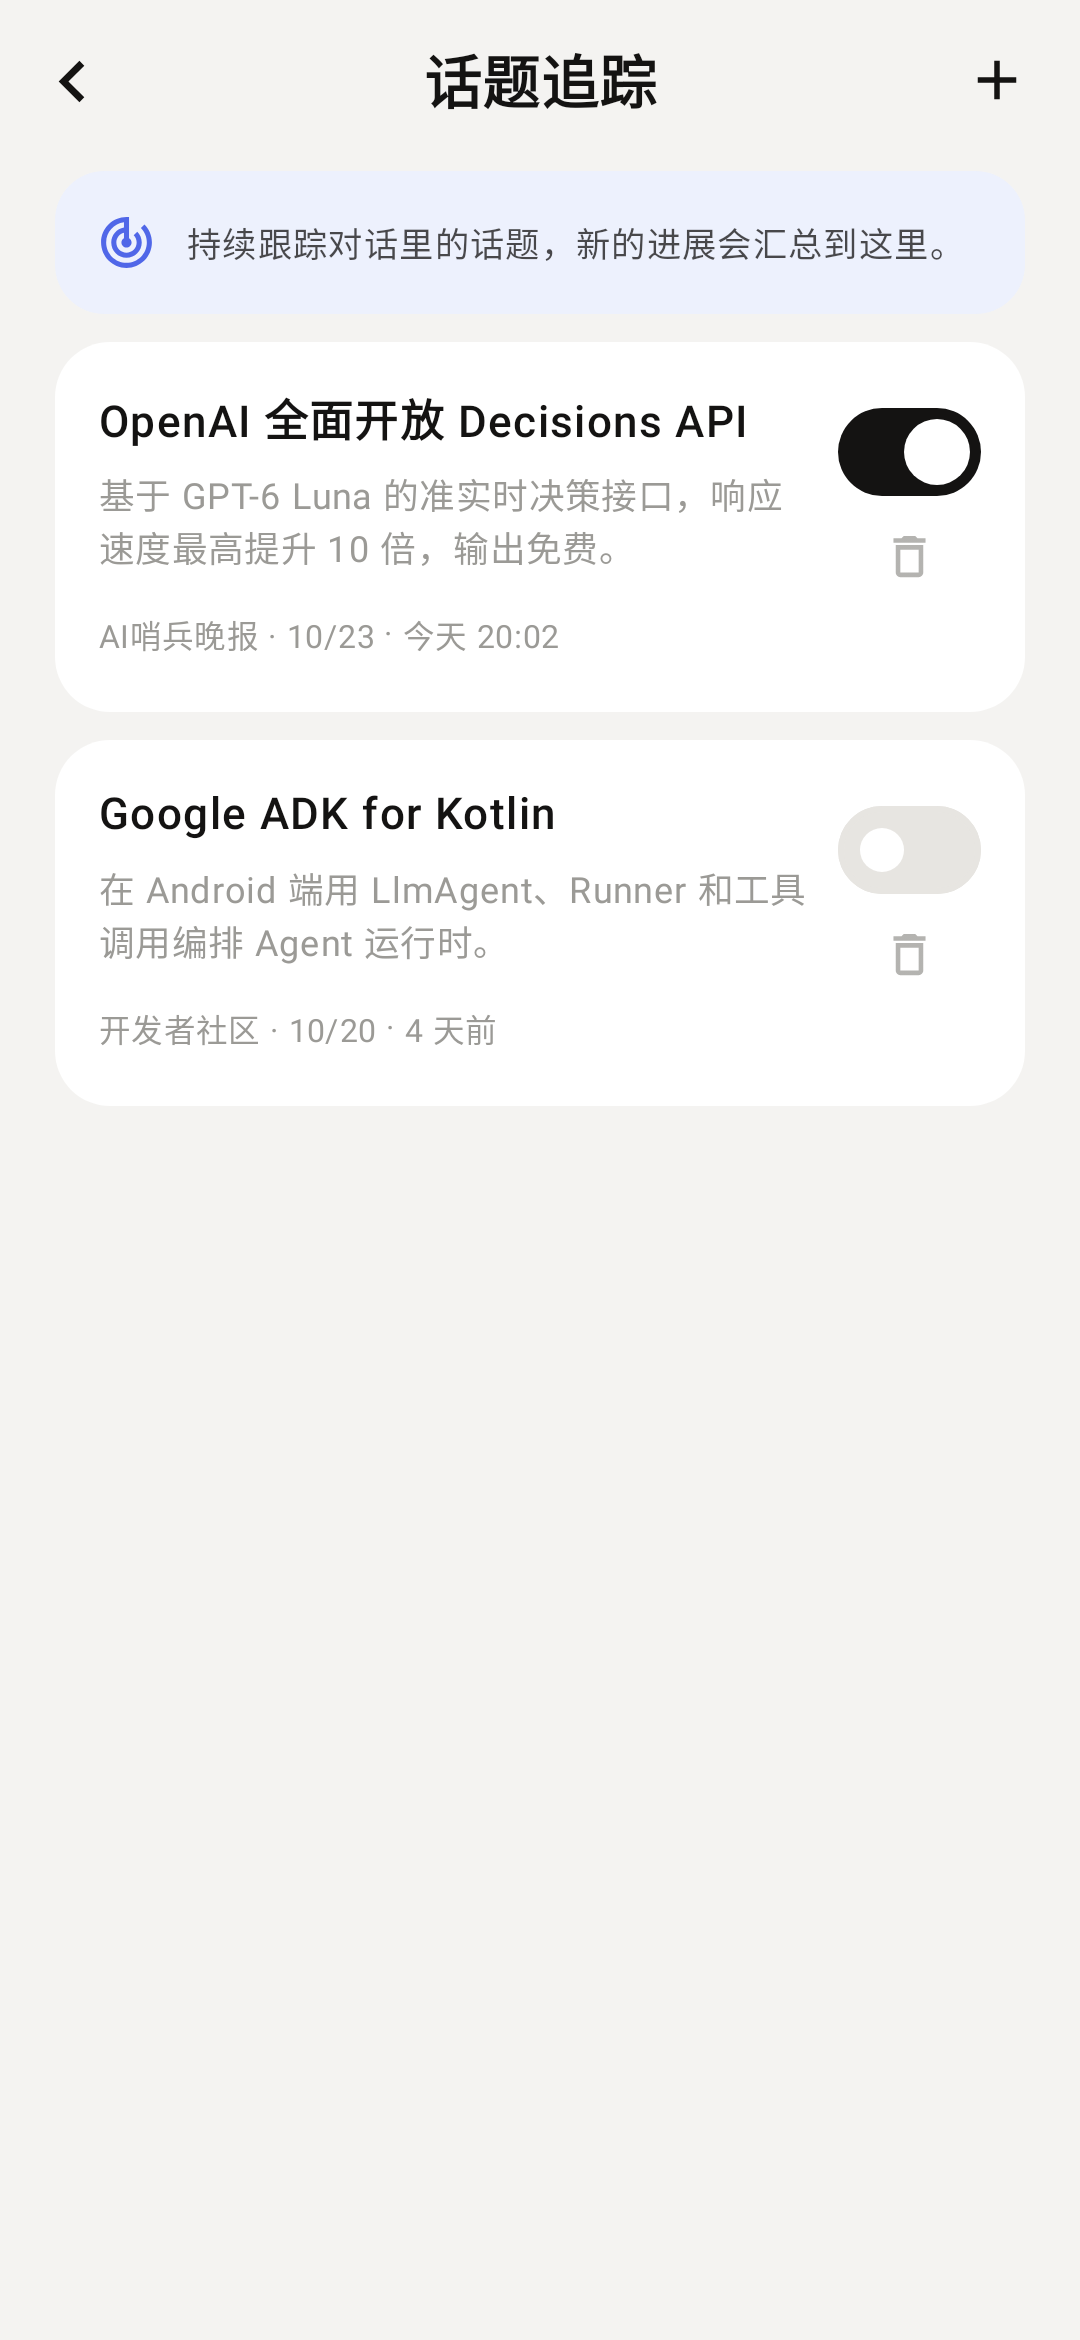
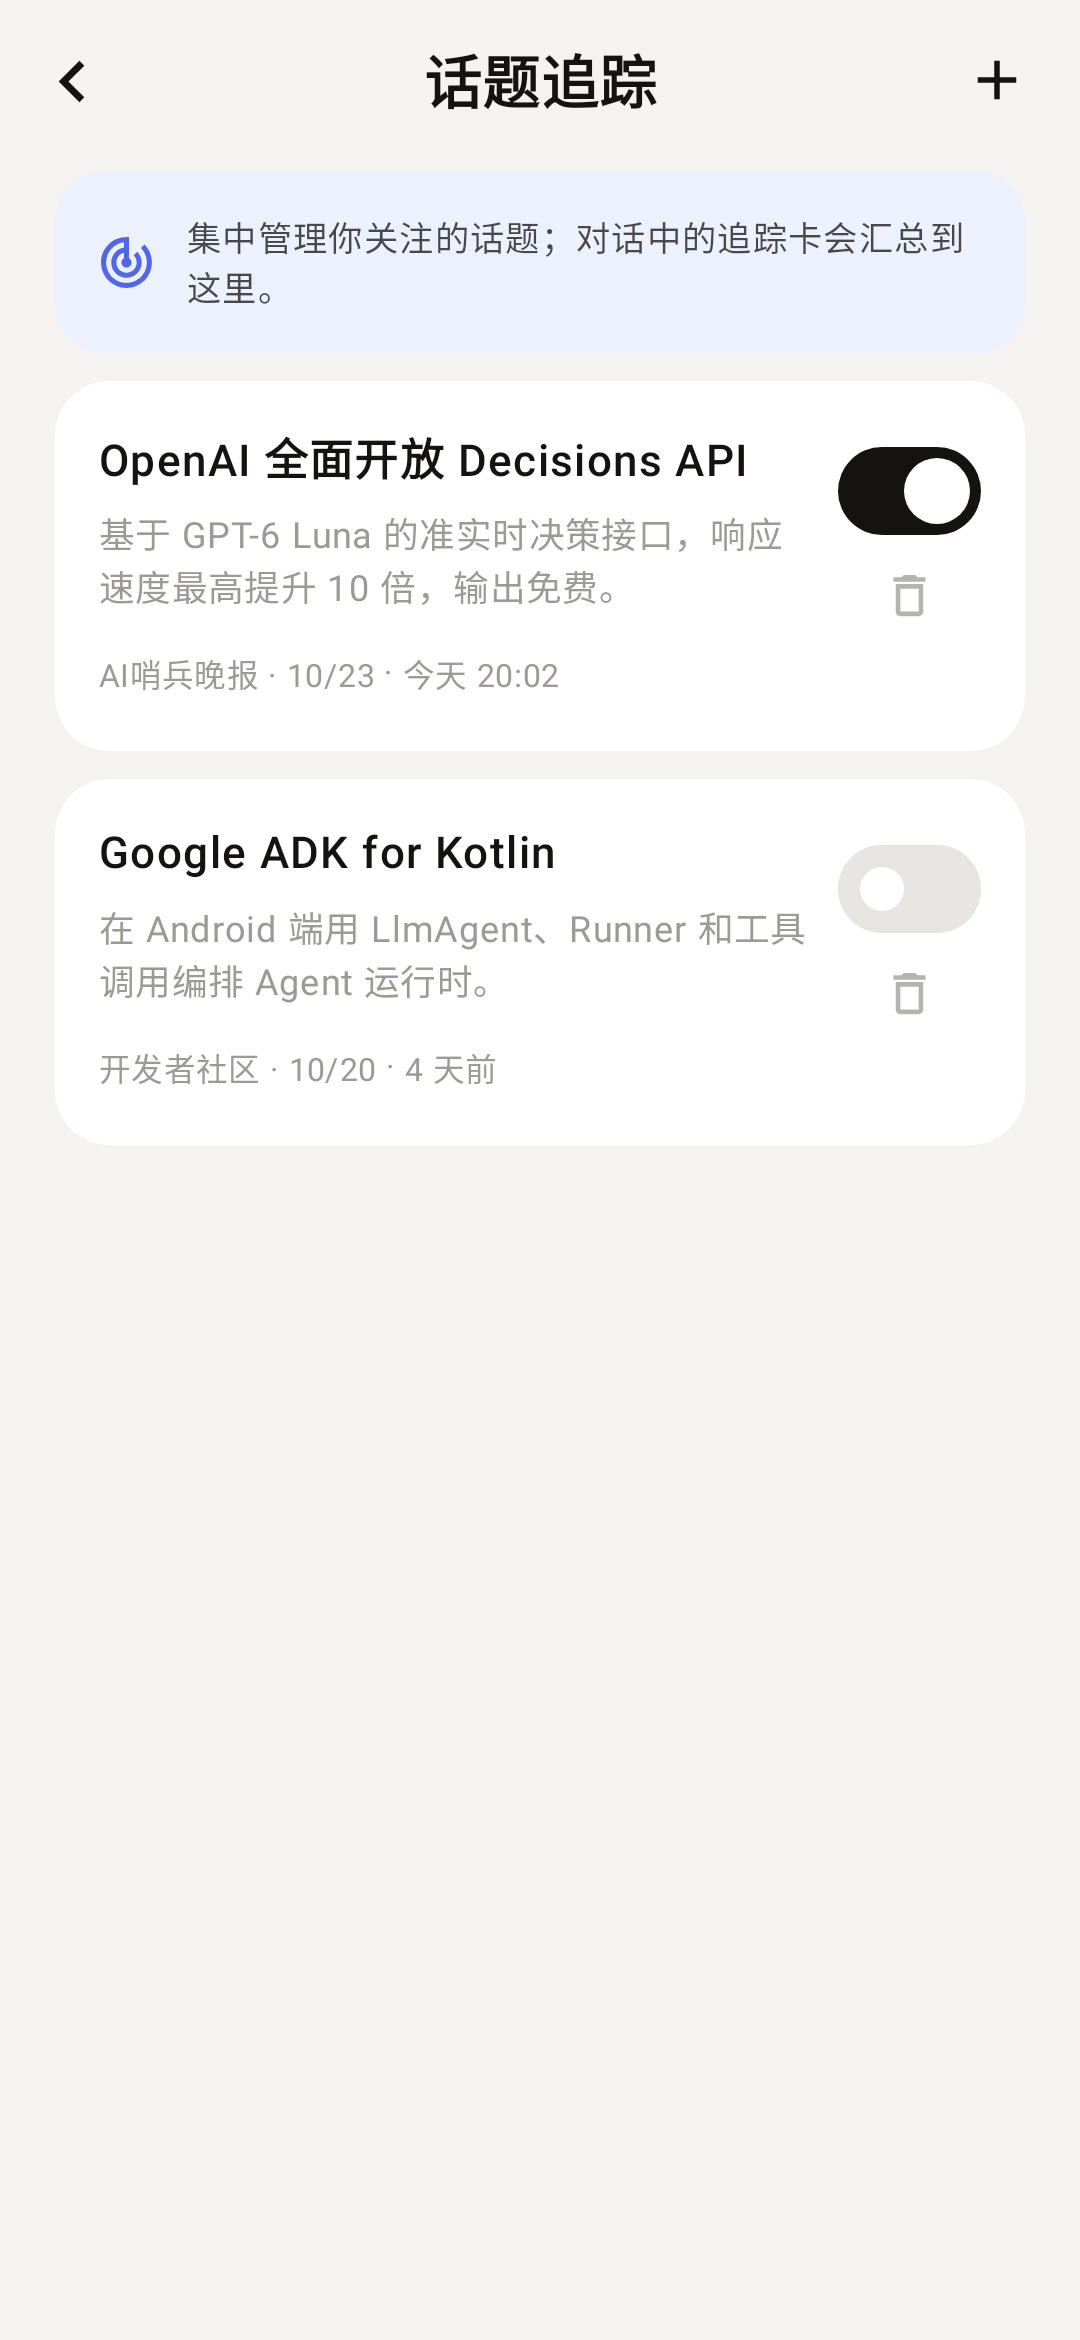
docs: add feature audit and clarify local demo boundaries
- add docs/FEATURE-AUDIT.md mapping every UI feature to code and evidence
- label schedule, drive and topic tracking behavior honestly
- refresh affected screenshots

diff --git a/app/src/main/java/com/qoder/clawagent/ui/screens/DriveScreen.kt b/app/src/main/java/com/qoder/clawagent/ui/screens/DriveScreen.kt
@@ -136,14 +136,14 @@ fun DriveScreen(vm: AppViewModel, onOpenExtensions: (Int) -> Unit) {
                     ) {
                         Column(Modifier.weight(1f)) {
                             Text(
-                                text = "云端工作区文件",
+                                text = "工作区文件",
                                 color = Ink,
                                 fontSize = 14.5.sp,
                                 fontWeight = FontWeight.SemiBold,
                             )
                             Spacer(Modifier.height(3.dp))
                             Text(
-                                text = if (importing) "正在读取文件…" else "${files.size} 个文件 · 图片与文档可从对话或本页添加",
+                                text = if (importing) "正在读取文件…" else "${files.size} 个文件 · 本地演示工作区，可从对话或本页添加",
                                 color = Muted,
                                 fontSize = 11.5.sp,
                             )

diff --git a/app/src/main/java/com/qoder/clawagent/ui/screens/ScheduleScreen.kt b/app/src/main/java/com/qoder/clawagent/ui/screens/ScheduleScreen.kt
@@ -119,7 +119,7 @@ fun ScheduleScreen(vm: AppViewModel, onOpenExtensions: (Int) -> Unit) {
                                 fontWeight = FontWeight.SemiBold,
                             )
                             Spacer(Modifier.height(2.dp))
-                            Text("任务到点后由对应 Agent 执行，结果会回到会话。", color = Muted, fontSize = 11.5.sp)
+                            Text("本地配置 · 定时执行需云端 worker", color = Muted, fontSize = 11.5.sp)
                         }
                     }
                 }

diff --git a/app/src/main/java/com/qoder/clawagent/ui/screens/TopicTrackingScreen.kt b/app/src/main/java/com/qoder/clawagent/ui/screens/TopicTrackingScreen.kt
@@ -101,7 +101,7 @@ fun TopicTrackingScreen(vm: AppViewModel, focusTopicId: String? = null) {
                     )
                     Spacer(Modifier.width(11.dp))
                     Text(
-                        text = "持续跟踪对话里的话题，新的进展会汇总到这里。",
+                        text = "集中管理你关注的话题；对话中的追踪卡会汇总到这里。",
                         color = Ink.copy(alpha = 0.76f),
                         fontSize = 12.5.sp,
                         lineHeight = 18.sp,

diff --git a/docs/FEATURE-AUDIT.md b/docs/FEATURE-AUDIT.md
@@ -1,0 +1,102 @@
+# v1.4 界面功能点核对
+
+核对范围：参考稿中的对话首页、Agent 对话、扩展广场（插件 / 技能 / MCP）、新建 Agent 流程，以及 v1.4 补齐的项目、日程、云盘、个人中心、套餐、话题、Agent 设置、三方 Agent 与本地 Agent 页面。
+
+状态说明：
+
+- **已实现**：有完整交互与状态流转，不只是静态布局。
+- **演示**：交互完整，但依赖本地状态或外部服务，界面中已明确标注。
+- **需外部服务**：客户端已提供配置与入口，真实执行需要云端 worker。
+
+## 对话首页与项目
+
+| 功能点 | 状态 | 实现与验证 |
+| --- | --- | --- |
+| Agent 列表、最近项目、时间与预览摘要 | 已实现 | `HomeScreen.kt`；`home.png` |
+| Agent 搜索过滤 | 已实现 | 顶部搜索按钮展开输入框，按名称 / 摘要过滤 |
+| 列表展开 / 收起 | 已实现 | 「展开」切换可见 Agent 数 |
+| 右上角「+」菜单 | 已实现 | 新建 Agent、新建项目入口 |
+| 新建通用 / 网站项目 | 已实现 | 项目名与类型，创建后进入项目详情；`AppViewModelTest` 覆盖 |
+| 项目详情、工作目录、最近活跃 | 已实现 | `ProjectDetailScreen.kt`；`project-detail.png` |
+| 项目对话 | 已实现 | 每个项目复用一条隐藏 `ChatConversation`，不出现在 Agent 列表 |
+| 个人进阶入口 | 已实现 | 顶部胶囊与底部「更多」均可达 |
+
+## Agent 对话
+
+| 功能点 | 状态 | 实现与验证 |
+| --- | --- | --- |
+| 流式回复、首包上屏、停止 / 重试 / 清空 | 已实现 | `ChatConversation`；9 个领域测试 |
+| 401 / 402 / 429 / 超时 / 断网中文提示 | 已实现 | `ChatFailures.kt` 与错误卡片 |
+| 长文「显示更多 / 收起」 | 已实现 | `ChatThread.kt`；`chat.png` |
+| 用户消息、附件消息、话题追踪卡 | 已实现 | 图片 240×160 裁切；文件芯片显示名称 / 大小 |
+| 顶部运行时状态（云端 / 云电脑 / 本地） | 已实现 | `ChatHeader.kt` + `WorkspaceDialog` |
+| 工作区详情（模型、引擎、目录、端点、扩展） | 已实现 | `ChatDialogs.kt` |
+| 「已处理 N 秒」详情（耗时、模型、输出字数、附件数） | 已实现 | `ProcessedDialog` |
+| 图片多选（最多 4 张）与文件选择（总附件上限 6） | 已实现 | `PickMultipleVisualMedia` / `OpenDocument`；图片缩放 1280px、JPEG 82% |
+| 文本文件读取（前 16 KB）与二进制元数据 | 已实现 | `Attachments.kt` |
+| 附件进入 OpenRouter / ADK / 本地三种运行时 | 已实现 | data URL 图片与文本拼装；`OpenRouterTest` 覆盖 |
+| 语音输入（填入输入框） | 已实现 | `SpeechRecognizer`；运行时权限；单次收音 |
+| 旁听（持续收音，结束后发送） | 已实现 | `VoiceCaptureDialog` 的 `LISTEN` 模式；支持重新收音 |
+| 无语音服务 / 权限拒绝处理 | 已实现 | 中文提示，不崩溃 |
+| 插件 / 技能入口 | 演示 | 打开扩展面板，未接真实执行后端 |
+| 模型设置（Key、模型、Base URL、引擎） | 已实现 | `OpenRouterSettingsDialog`；保存后立即生效 |
+
+## 扩展广场与新建 Agent
+
+| 功能点 | 状态 | 实现与验证 |
+| --- | --- | --- |
+| 插件 / 技能 / MCP 三个 Tab | 已实现 | `ExtensionsOverlay.kt`；`plugins.png`、`skills.png`、`mcp.png` |
+| 技能分类筛选、添加 / 已添加 | 已实现 | 本地状态流转 |
+| 新建 Agent 三条路径 | 已实现 | 扣子 Agent、三方精选、本地 Agent；`new-agent.png` |
+| 扣子职业模板、直接创建 | 已实现 | `CozeTemplatesScreen`；`templates.png` |
+| 名称一键换名、工作目录同步 | 已实现 | `AgentFormScreen.kt`；`form.png` |
+| 描述、扩展能力多选 | 已实现 | 扩展选择弹窗与标签展示 |
+| 创建后回到首页并置顶 | 已实现 | `AppViewModel.createAgent` |
+
+## Agent 设置与三方 / 本地 Agent
+
+| 功能点 | 状态 | 实现与验证 |
+| --- | --- | --- |
+| 编辑名称、工作目录、描述 | 已实现 | `AgentSettingsScreen.kt`；`agent-settings.png` |
+| 保存后同步当前会话 | 已实现 | `ChatConversation.updateAgent`；`AppViewModelTest` 覆盖 |
+| 自定义 Agent 删除 + 二次确认 | 已实现 | 种子 Agent 受保护，不可删除 |
+| 三方 Agent 目录与配置 | 演示 | Claude Code / Codex / Gemini / OpenCode；`third-party.png` |
+| 三方 CLI 真实执行 | 需外部服务 | 页面明确标注「真实 CLI 执行需要连接 worker」 |
+| 本地 Agent 端点 / 模型 / 可选 Key | 已实现 | `LocalAgentScreen.kt`；`local-agent.png` |
+| 连接测试 `GET /models` 与模型选择 | 已实现 | `LocalEndpointProbe`；失败有中文提示 |
+| 本地 Agent 对话 | 已实现 | `LocalReplySource` 直连 OpenAI 兼容 `/v1` |
+
+## 日程、云盘、话题与个人中心
+
+| 功能点 | 状态 | 实现与验证 |
+| --- | --- | --- |
+| 新增日程（标题、时间、重复、执行 Agent） | 已实现 | `ScheduleScreen.kt`；`schedule.png` |
+| 完成 / 取消完成、删除、空状态 | 已实现 | 本地状态；`AppViewModelTest` 覆盖 |
+| 日程真正到点执行 | 需外部服务 | 页面标注「定时执行需接入云端 worker」 |
+| 云盘添加 / 大小 / 类型 / 时间 | 已实现 | 系统文件选择器；`drive.png` |
+| 文本预览、系统应用打开、删除、空状态 | 已实现 | 无本地 URI 的演示文件提供文本预览 |
+| 话题新增 / 关注开关 / 删除 | 已实现 | `TopicTrackingScreen.kt`；`topics.png` |
+| 对话中的话题追踪卡跳转 | 已实现 | 卡片 → 话题工作台 |
+| 个人中心账号卡、统计、入口 | 已实现 | `ProfileScreen.kt`；`profile.png` |
+| 通知开关、帮助 / 关于、版本号 | 演示 | 本地状态与对话框 |
+| Free / Pro 对比与演示升级 | 演示 | 明确提示「不产生真实扣费」；`upgrade.png` |
+
+## 验证结果
+
+```text
+./gradlew :app:assembleDebug      BUILD SUCCESSFUL
+./gradlew :app:lintDebug          BUILD SUCCESSFUL（0 error）
+./gradlew :app:testDebugUnitTest  BUILD SUCCESSFUL（41 tests, 0 failed, 2 skipped live tests）
+./gradlew :app:recordRoborazziDebug  17 screenshots
+```
+
+- 确定性测试 39 个：`ChatConversationTest` 9、`OpenRouterRepositoryTest` 5、`AppViewModelTest` 6、`AdkReplySourceTest` 2、`ScreenshotTest` 17。
+- 可选联调 2 个：`OpenRouterLiveTest`、`AdkLiveTest`，默认跳过，需 `OPENROUTER_LIVE_TEST=1`。
+- 截图：`docs/screenshots/`，共 17 张，1080×2340。
+
+## 边界与后续
+
+1. 三方 CLI、定时调度、真实支付、登录 / 账号服务需要服务端；当前客户端不伪装这些能力。
+2. 插件、技能、MCP、通知、帮助 / 关于为本地交互演示。
+3. 本地 Agent 的 API Key 仅保存在进程内存；正式产品应改为后端短期凭证。
+4. 云端模型 Key 仍可能进入 debug APK 的 `BuildConfig`，交付包已使用空 Key 重新构建。

diff --git a/README.md b/README.md
@@ -48,6 +48,8 @@
 
 ## 已实现功能
 
+逐项核对表（含演示边界与测试证据）见 [docs/FEATURE-AUDIT.md](docs/FEATURE-AUDIT.md)。
+
 ### 对话与项目
 
 - **对话首页**：Agent 列表、最近项目、展开 / 收起、搜索过滤、右上角「+」菜单、个人进阶入口。
@@ -72,8 +74,8 @@
 
 ### 日程、云盘与个人中心
 
-- **日程**：新增定时任务（标题、时间、重复、执行 Agent）、完成 / 取消完成、删除、空状态。
-- **云盘**：从系统文件选择器添加文件、显示类型 / 大小 / 时间、调用系统应用打开、删除、空状态。
+- **日程**：新增定时任务（标题、时间、重复、执行 Agent）、完成 / 取消完成、删除、空状态；任务配置保存在本地，真正定时执行需接入云端 worker。
+- **云盘（本地演示）**：从系统文件选择器添加文件、显示类型 / 大小 / 时间、文本预览、调用系统应用打开、删除、空状态。
 - **个人中心**：账号卡、统计（Agent / 项目 / 关注话题 / 云盘文件）、Free / Pro 状态、模型设置、话题追踪、三方 Agent、本地 Agent、通知开关、帮助 / 关于、版本号。
 - **套餐页**：Free / Pro 权益对比与本地演示升级，明确提示不包含支付与订阅，不会产生真实扣费。
 - **底部导航**：对话 / 日程 / 扩展 / 云盘 / 更多，带选中态与返回逻辑。
@@ -285,4 +287,4 @@ app/src/test/java/com/qoder/clawagent/
 
 ## 说明
 
-三方 Agent 页面提供配置、会话与入口，真实 CLI 执行需要外部 worker，界面中已明确标注。套餐升级、通知开关、帮助 / 关于为本地状态演示；插件、技能与 MCP 为完整的交互演示，未接真实后端。演示数据位于 `SampleData.kt`，可自行替换。
+三方 Agent 页面提供配置、会话与入口，真实 CLI 执行需要外部 worker，界面中已明确标注。定时任务的调度、套餐升级、通知开关、账号资料与帮助 / 关于为本地状态演示；插件、技能与 MCP 为完整的交互演示，未接真实后端。演示数据位于 `SampleData.kt`，可自行替换。
